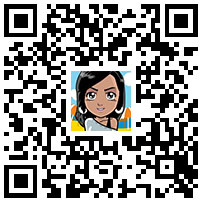
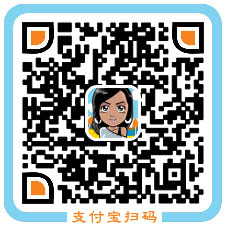
yj

diff --git a/stylesheets/stylesheet.css b/stylesheets/stylesheet.css
@@ -266,12 +266,12 @@ a {
   left: 0;
   bottom: 0;
   right: 0;
-/* Permalink - use to edit and share this gradient: http://colorzilla.com/gradient-editor/#003973+0,e5e5be+100 */
-  background: #003973; /* Old browsers */
-  background: -moz-linear-gradient(left, #003973 0%, #e5e5be 100%); /* FF3.6-15 */
-  background: -webkit-linear-gradient(left, #003973 0%, #e5e5be 100%); /* Chrome10-25,Safari5.1-6 */
-  background: linear-gradient(to right, #003973 0%, #e5e5be 100%); /* W3C, IE10+, FF16+, Chrome26+, Opera12+, Safari7+ */
-  filter: progid:DXImageTransform.Microsoft.gradient( startColorstr='#003973', endColorstr='#e5e5be',GradientType=1 ); /* IE6-9 */;
+/* Permalink - use to edit and share this gradient: http://colorzilla.com/gradient-editor/#80d2f0+0,e5e5be+100 */
+  background: #80d2f0; /* Old browsers */
+  background: -moz-linear-gradient(left, #80d2f0 0%, #e5e5be 100%); /* FF3.6-15 */
+  background: -webkit-linear-gradient(left, #80d2f0 0%, #e5e5be 100%); /* Chrome10-25,Safari5.1-6 */
+  background: linear-gradient(to right, #80d2f0 0%, #e5e5be 100%); /* W3C, IE10+, FF16+, Chrome26+, Opera12+, Safari7+ */
+  filter: progid:DXImageTransform.Microsoft.gradient( startColorstr='#80d2f0', endColorstr='#e5e5be',GradientType=1 ); /* IE6-9 */;
 }
 .home-box {
   -webkit-user-select: none;
@@ -483,15 +483,13 @@ a {
 .aboutme .pay span {
   display: inline-block;
   vertical-align: middle;
-  width: 213px;
-  height: 223px;
-  border: 1px solid #ccc;
+  width: 226px;
+  height: 226px;
   margin-right: 40px;
-  padding: 2px 6px 20px;
   margin-bottom: 10px;
 }
 .aboutme .pay img {
-  height: 200px;
+  height: 226px;
   background: #eee;
   text-align: center;
 }

diff --git a/about.html b/about.html
@@ -24,23 +24,19 @@
         </div>
         <strong class="title" name="support" id="support">支持本站<span> <font aria-hidden="true" tabindex="0">/ Support Me</font></span></strong>
         <div>
-          <p>如果本站内容曾经触动或帮助到了你，那不妨打赏喝杯咖啡吧 ^.^</p>
+          <p>如果本站内容曾经触动或帮助到了你，那不妨打个赏吧！</p>
           <p class="pay">
             <span class="alipay">
               <img src="images/ali-pay.jpg" alt="支付宝扫码，帐号：408172509@qq.com" style="cursor: zoom-in;">
-              <i>(支付宝扫码)</i>
             </span>
             <span class="wechatpay">
               <img src="images/wechat-pay.jpg" alt="微信扫码，帐号：yangjie_china" style="cursor: zoom-in;">
-              <i>(微信扫码)</i>
-              <b>(长按二维码)</b>
             </span>
           </p>
           <p>坚持写作不易，感谢你的支持！</p>
         </div>
         <strong class="title">关于内容<span> <font aria-hidden="true" tabindex="0">/ About The Website</font></span></strong>
         <div>
-          <p>版权声明: 「署名-非商业性使用-禁止演绎 3.0 国际」（<a href="https://creativecommons.org/licenses/by-nc-nd/3.0/deed.zh" target="_blank">CC BY-NC-ND 3.0</a>）</p>
           <p>所有文章非特别说明皆为原创。技术更迭飞快，部分文章可能会作修改，为保证转载信息与源同步，转载请注明文章出处！谢谢合作 :-) </p>
           <p>文章皆为个人观点，不代表所服务的公司。</p>
         </div>
